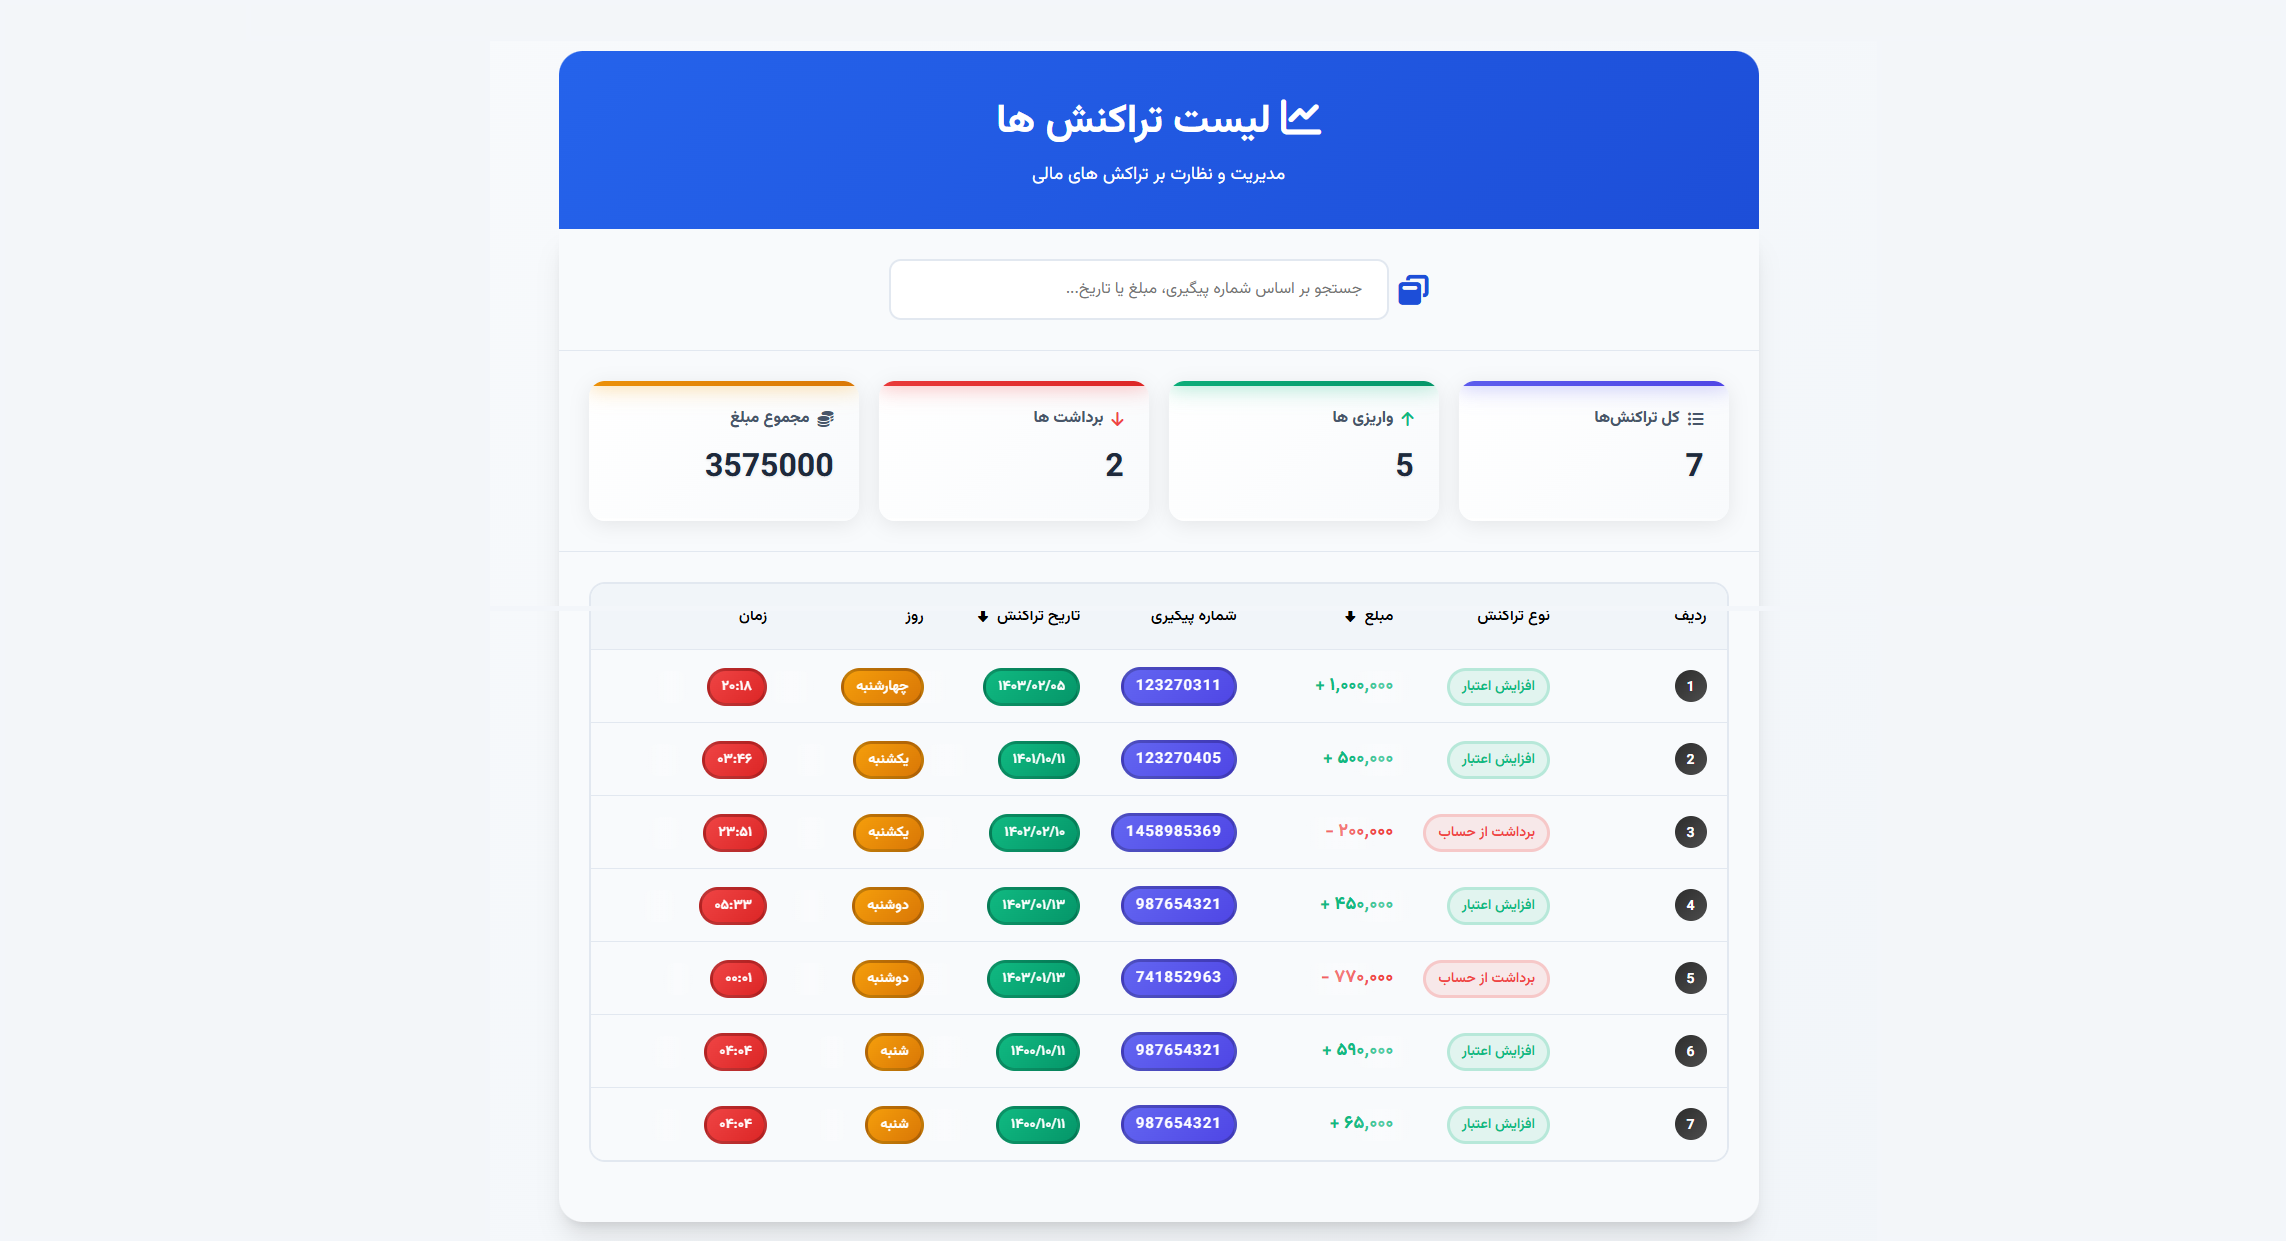
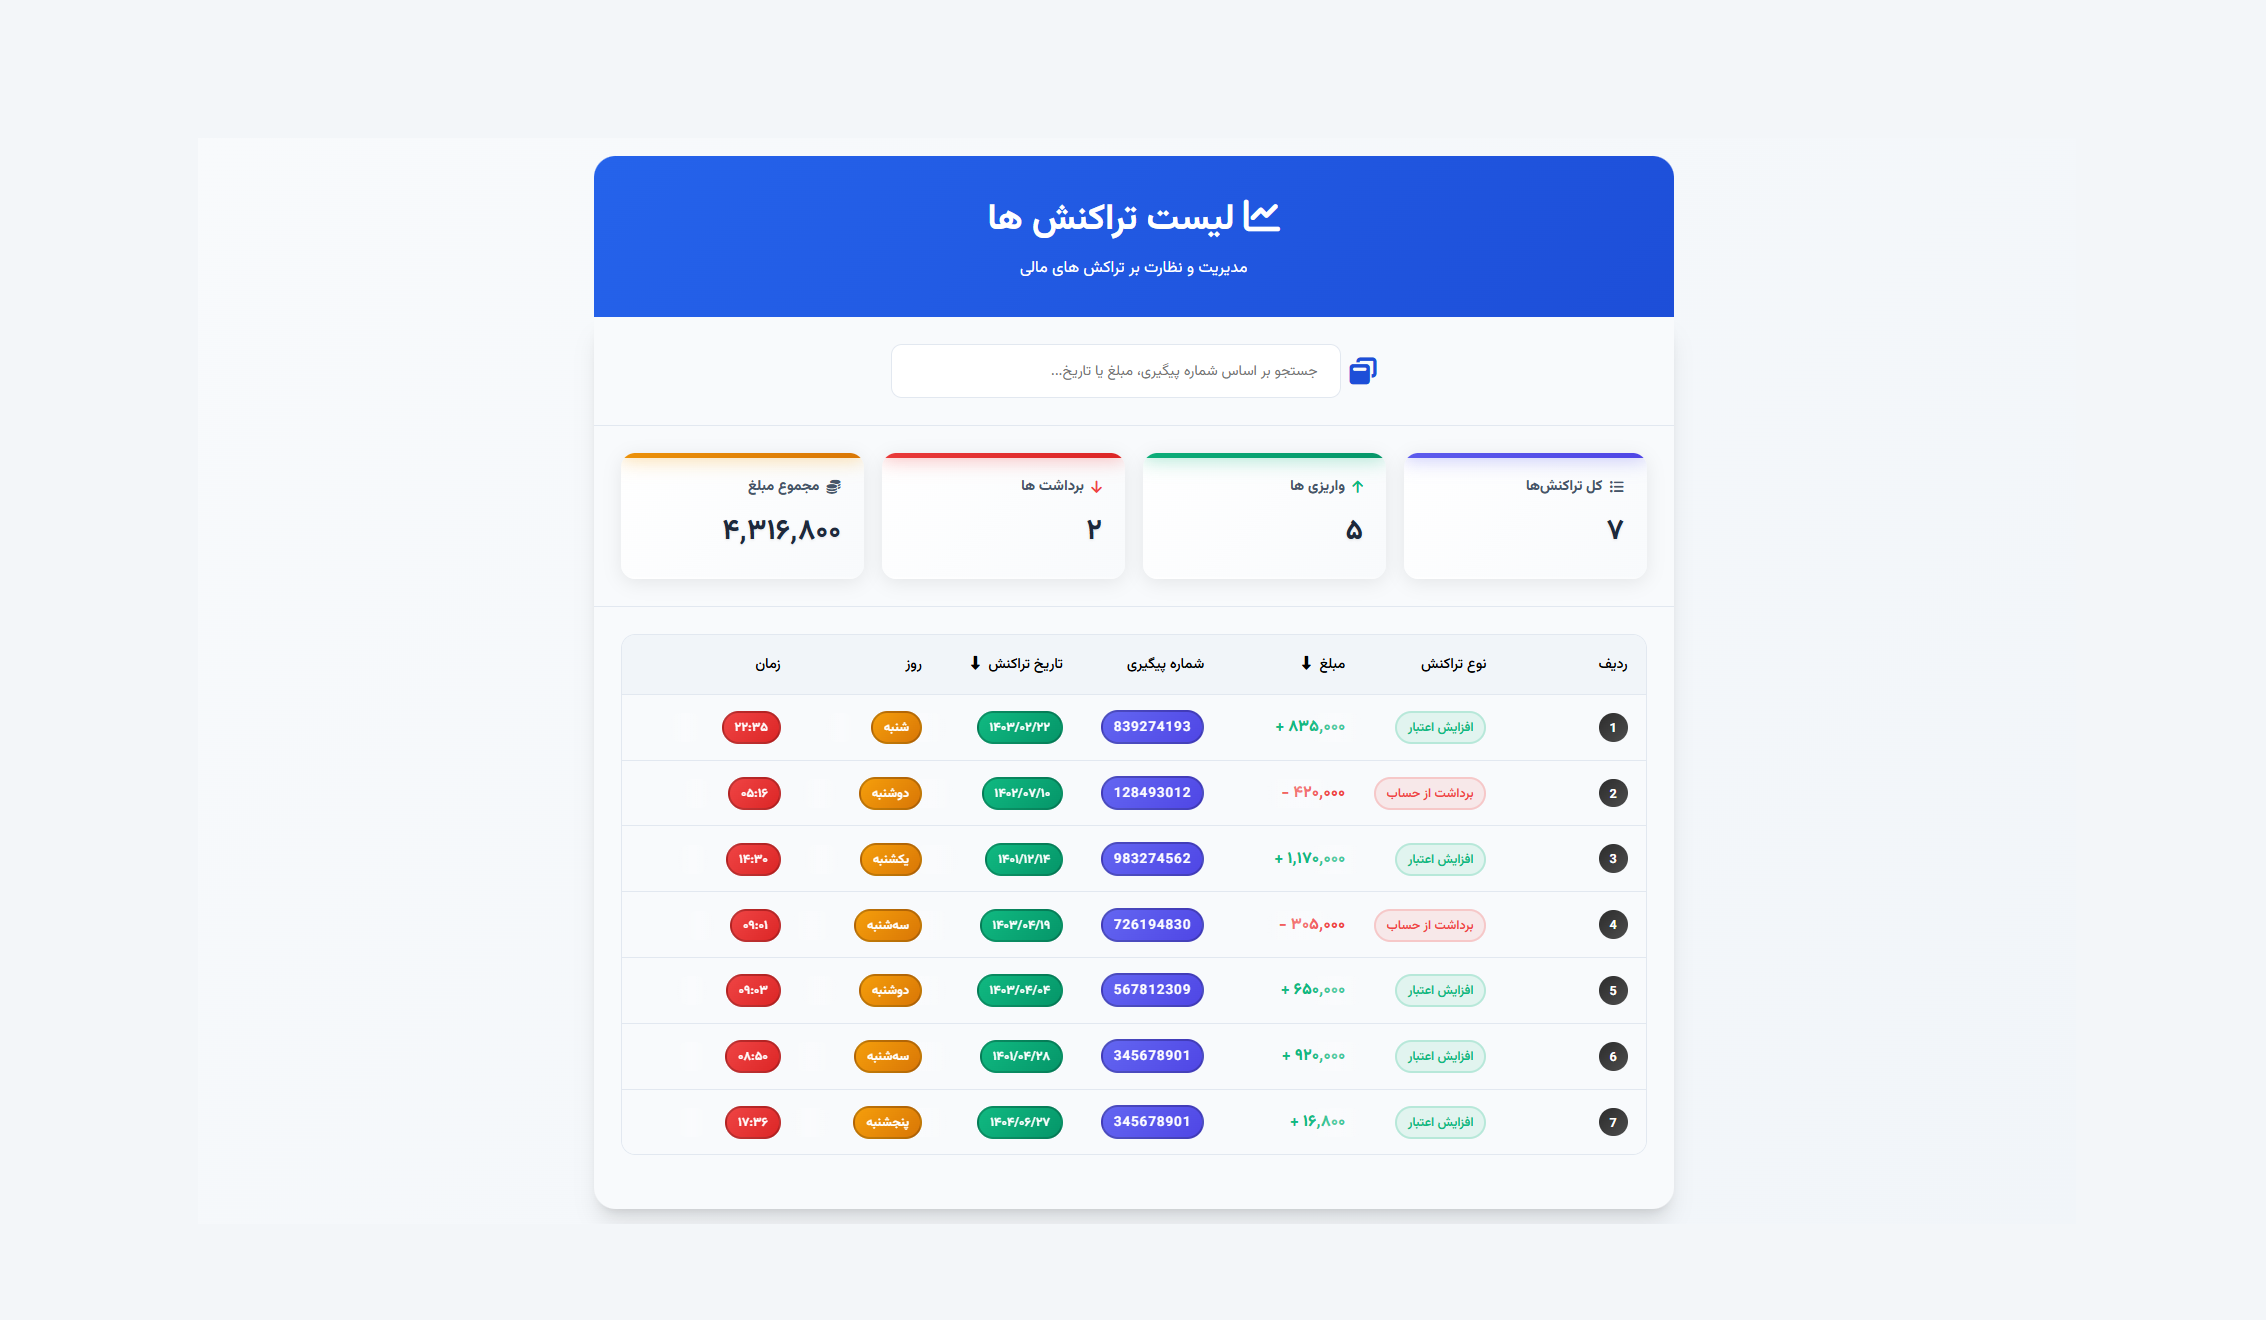
fix: change the static board numbers to Persian numerals

diff --git a/04-advanced/transactions-panel/src/scripts/app.js b/04-advanced/transactions-panel/src/scripts/app.js
@@ -252,10 +252,10 @@ class Ui {
     const withdrawalStats = document.querySelector(".withdrawal-transactions");
     const totalpriceStats = document.querySelector(".totalprice-transactions");
 
-    allStats.innerText = ProdcutStatics.productALLLStatic(allProducts).length;
-    depositeStats.innerText = ProdcutStatics.productDepositeStatic(allProducts).length;
-    withdrawalStats.innerText = ProdcutStatics.productWithdrawalStatic(allProducts).length;
-    totalpriceStats.innerText = ProdcutStatics.productTotalPriceStatic(allProducts)
+    allStats.innerText = ProdcutStatics.productALLLStatic(allProducts).length.toLocaleString("fa-IR");
+    depositeStats.innerText = ProdcutStatics.productDepositeStatic(allProducts).length.toLocaleString("fa-IR");
+    withdrawalStats.innerText = ProdcutStatics.productWithdrawalStatic(allProducts).length.toLocaleString("fa-IR");
+    totalpriceStats.innerText = ProdcutStatics.productTotalPriceStatic(allProducts).toLocaleString("fa-IR");
 
 
 
